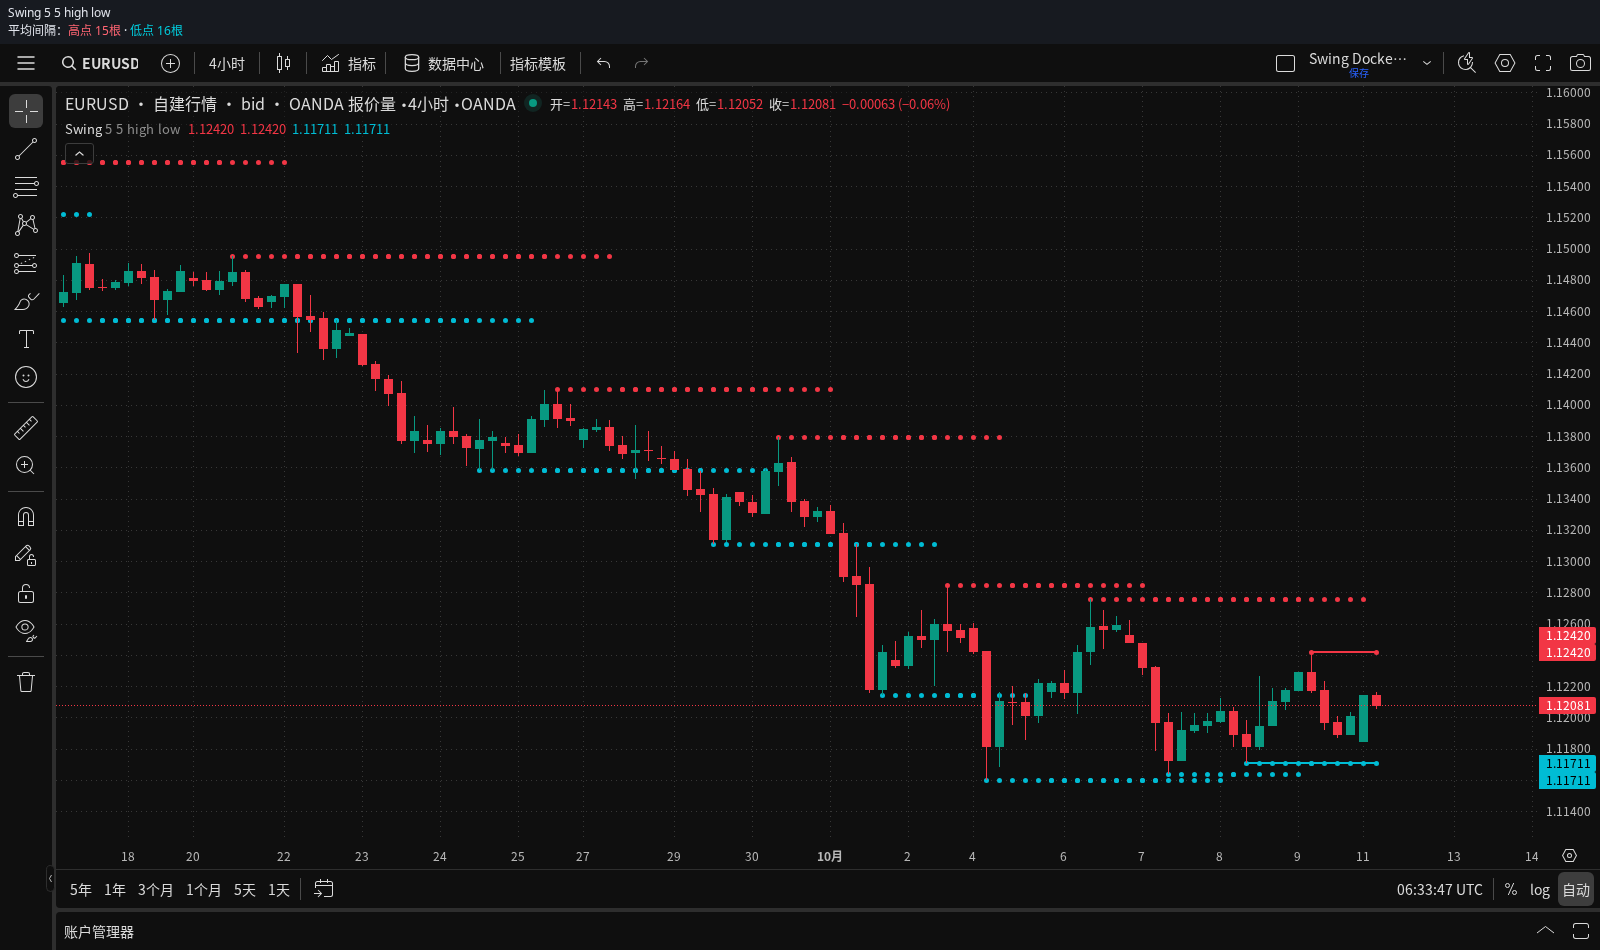
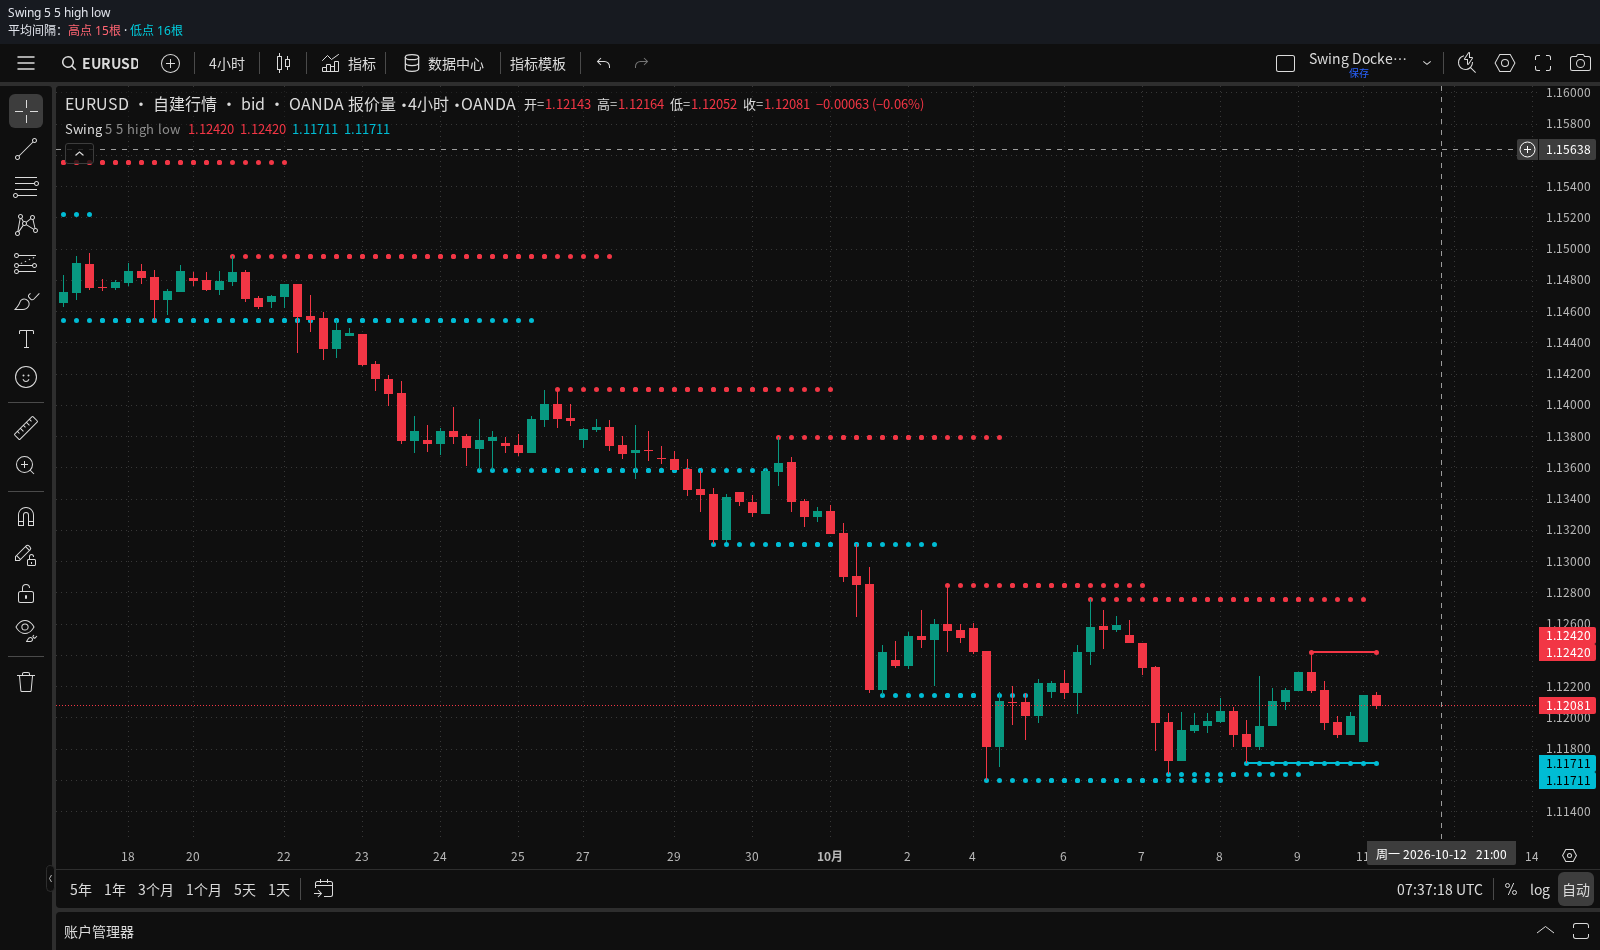
fix: recognize Swing native identity and record latest-main acceptance

Changed region(s): [[0.3438, 0.0916, 0.5938, 0.1221], [0.8438, 0.8853, 0.9688, 0.9463], [0.9375, 0.1221, 1.0, 0.1832]]

diff --git a/advanced-host/native-indicator-dialog.js b/advanced-host/native-indicator-dialog.js
@@ -32,13 +32,13 @@ function chartNativeIndicators(widget, doc, req, ui) {
     const nativeId = row.studyData?.id || row.id;
     // Native normalizes the package suffix (market-watch-1 -> market-watch).
     // Resolve this exact namespace before any translated/search display label.
-    const pythonId = String(nativeId || "").match(/^MWPython([A-Z]+)@market-watch(?:-1)?$/)?.[1];
+    const pythonId = String(nativeId || "").match(/^MWPython([A-Z][A-Z0-9_]*)@market-watch(?:-1)?$/)?.[1];
     if (pythonId) return state.entries.find(entry=>entry.source === "Python" && entry.id === pythonId) || null;
     const name = state.names.get(nativeId);
     const exact = state.entries.find(entry=>entry.name === name) ||
       state.entries.find(entry=>entry.name === row.title);
     if (exact) return exact;
-    const titleId = String(row.title || "").match(/^(?:守望 Python |Python )([A-Z]+)$/)?.[1];
+    const titleId = String(row.title || "").match(/^(?:守望 Python |Python )([A-Z][A-Z0-9_]*)$/)?.[1];
     if (titleId) return state.entries.find(entry=>entry.source === "Python" && entry.id === titleId) || null;
     return state.entries.find(entry=>entry.label === name) ||
       state.entries.find(entry=>entry.label === row.title) || null;

diff --git a/docs/swing-sr-implementation-acceptance-20261012.md b/docs/swing-sr-implementation-acceptance-20261012.md
@@ -1,6 +1,6 @@
 # Swing V1 实施与验收记录
 
-2026-10-12；Ubuntu 本机 `quant-server`。实现目录 `/home/quant/repos/market-watch-swing-sr-20261012`，分支 `feat/swing-sr-v1-20261012`，基线 `8c65edfdee15f0281750e888711cf8ecd20de1a0`。
+2026-10-12；Ubuntu 本机 `quant-server`。实现目录 `/home/quant/repos/market-watch-swing-sr-20261012`，分支 `feat/swing-sr-v1-20261012`，原始基线 `8c65edfdee15f0281750e888711cf8ecd20de1a0`；提交 PR 前同步 `origin/main` 至 `7f80f72`（v1.21.2），保留主线原生告警 UI、历史取消检查和生命周期修复。
 
 ## 交付结果
 
@@ -8,7 +8,7 @@ Swing 支撑阻力指标已接入 Python 计算、历史分页、共享实时更
 
 验收实例保留运行，当前工作区留有默认 Swing（high=5、low=5、统计开启且位于名称下方），4002 根冻结 OANDA H4 数据已恢复，包括末根盘中候选。管理员登录凭据位于 `/tmp/mw-swing-sr-20261012-private/credentials.json`，不在本文中展示。
 
-本任务在独立功能分支提交并准备 PR 审阅。许可库、凭据、TLS 私钥和完整浏览器状态未加入 Git；浏览器截图和结果位于 ignored `artifacts/`。没有生产发布或真实通知。
+本任务在独立功能分支提交并准备 PR 审阅。许可库、凭据、TLS 私钥和完整浏览器状态未加入 Git；浏览器原始结果位于 ignored `artifacts/`，脱敏截图与验收结果另存于 `docs/verification/swing-sr-v1-20261012/` 供 PR 审阅。没有生产发布或真实通知。
 
 ## 实现
 
@@ -49,15 +49,15 @@ Swing 支撑阻力指标已接入 Python 计算、历史分页、共享实时更
 
 ## 已执行验证与性能
 
-- 相关 Python 回归：**283 passed，68.95s**。
-- 专属 PostgreSQL 独立测试 schema：**6 passed，9.38s**，覆盖 provider SSE 合并／revision、worker 观察截止点、provider 分页、fixed history／composite 候选及 published 分页。
-- 实际应用 Chromium：`swing-sr-application.browser.cjs` 通过，`errors=[]`；数值、SSE、真实模板 UI／API、工作区重载、两图共享、切周期／品种、375px浅色及旧八指标恢复均有断言。
+- 相关 Python 回归：**286 passed，76.35s（同步最新 main 后）**。
+- 专属 PostgreSQL 独立测试 schema：**6 passed，11.52s（同步最新 main 后）**，覆盖 provider SSE 合并／revision、worker 观察截止点、provider 分页、fixed history／composite 候选及 published 分页。
+- 同步 main 后重新构建三种镜像并登录应用复验。实际应用 Chromium：`swing-sr-application.browser.cjs` 通过，`errors=[]`；数值、SSE、真实模板 UI／API、工作区重载、两图共享、切周期／品种、375px浅色及旧八指标恢复均有断言。
 - 模板交互 Chromium：`study-templates.browser.cjs` 验证覆盖取消／确认、删除取消／确认、实际粗指针只读及 dispose／重载。结果记录于 `artifacts/study-templates-acceptance.json`。
-- JS adapter、快照顺序与请求合并、market-stream、indicator-picker、chart-style、preferences、native-workspaces 通过；旧 VM 的 python-indicators、history-dedup、provider-subscriptions、history-pagination 使用临时 document stub 通过。
+- 原生指标目录九项身份识别及实际 UI 添加 Swing、JS adapter、快照顺序与请求合并、market-stream、indicator-picker、chart-style、preferences、native-workspaces 通过；旧 VM 的 python-indicators、history-dedup、provider-subscriptions、history-pagination 使用临时 document stub 通过。
 - 前端 build、许可图表真实 Docker build、核心／部署及新增测试 Ruff、JS 语法检查与 `git diff --check` 通过。
 - 既有 `advanced-native-save-race.cjs` 因 VM mock 缺 `chartThemeName` 失败；未把它记为通过。真实原生及应用保存已单独验证桥排除，原生探针还验证普通用户画线保留。
 
-实际容器完整4002根统计、裁剪返回175根的5次浏览器请求耗时为252.9／172.9／267.3／173.6／161.9ms，中位173.6ms、最大267.3ms。包含浏览器、TLS、API、数据库和反序列化，是有限串行测量，不是生产吞吐量承诺。两个同参数图表只保留四个原生 listener 和一个服务端 task，两个图表均实际接收到候选撤回／恢复；原生参数重载和旧订阅注销为异步流程，验收等待稳定状态后再检查共享任务；服务端测试断言四 listener 只全量计算一次。离线4002根计算曾测得中位约57ms，不将其混称容器延迟。
+实际容器完整4002根统计、裁剪返回175根的5次浏览器请求耗时为166.1／225.8／171.1／308.9／320.0ms，中位225.8ms、最大320.0ms。包含浏览器、TLS、API、数据库和反序列化，是有限串行测量，不是生产吞吐量承诺。两个同参数图表只保留四个原生 listener 和一个服务端 task，两个图表均实际接收到候选撤回／恢复；原生参数重载和旧订阅注销为异步流程，验收等待稳定状态后再检查共享任务；服务端测试断言四 listener 只全量计算一次。离线4002根计算曾测得中位约57ms，不将其混称容器延迟。
 
 可随 PR 审阅的脱敏截图及结果见[浏览器证据](verification/swing-sr-v1-20261012/README.md)。
 
@@ -79,9 +79,9 @@ Compose project／task 为 `mw-swing-sr-20261012`，独立 PG14、数据库、vo
 
 | 服务 | 运行镜像摘要 |
 | --- | --- |
-| API／market-stream | `sha256:a494fbef7187889ee5984267cbc10184b00e265e7ed47b2a10d5a51a2049e601` |
-| web | `sha256:7db1f357e1d9747373afe9adf613445bd0b0314d61f9bef844303eadf439a49f` |
-| chart-origin | `sha256:cc820b6bb238c05eeeab53f83ef75d05b478a5372ef1649b371975694c705de8` |
+| API／market-stream | `sha256:8ddba9a3bcff21d653f7f51f1dfb181d6e1b54566f21beb76d3dffada981a0f9` |
+| web | `sha256:61ed6375fed39d81cb9e603a7d0da04baf49ffd90164f9963136d53d28206537` |
+| chart-origin | `sha256:1714b696ba2af71a2928e44a52f4f03152d4f67692a86780509896788915097e` |
 
 API 与 chart 中本任务源文件 SHA256 已与工作区逐一核对；build-assets 从同一 source 打包版本化 host 脚本。
 
